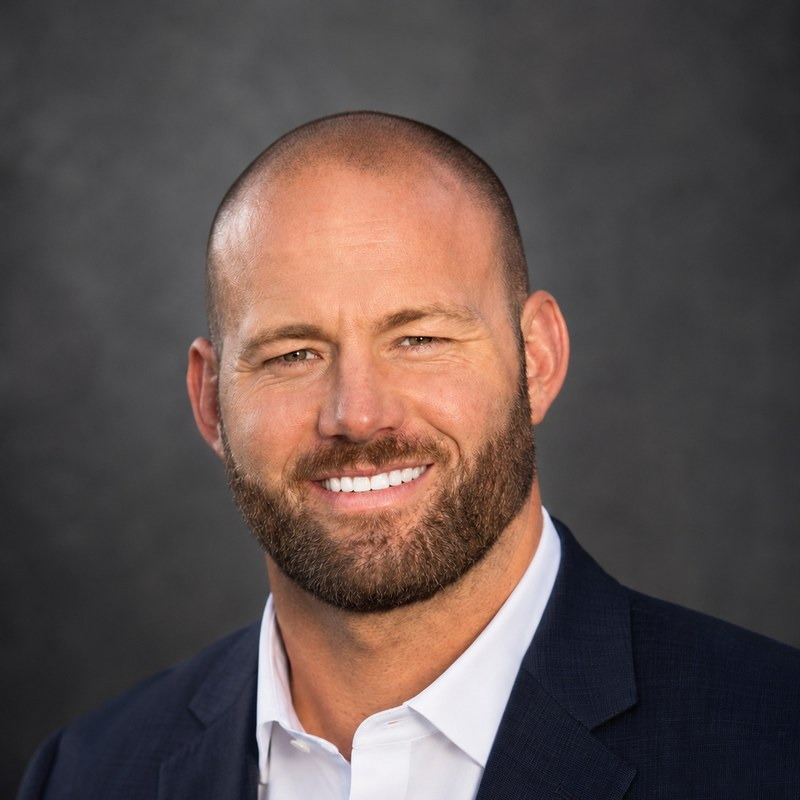
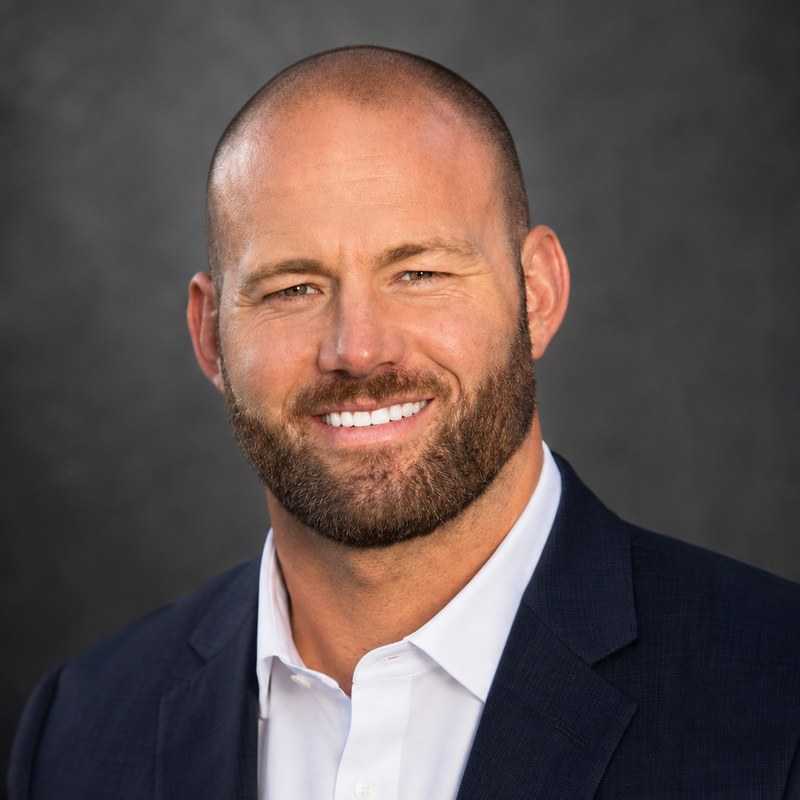
Shorten Brandon's bio to match other leaders; update cropped photo

diff --git a/src/lib/content.ts b/src/lib/content.ts
@@ -271,8 +271,7 @@ export const leadership = {
           photo: img("brandon-rockwood.jpg"),
           role: "Head of Business Development",
           bio: [
-            "Brandon Rockwood is a business development and sales leader with more than 15 years of experience building revenue systems, developing strategic partnerships, and bringing emerging opportunities to market. At Advio, he leads business development efforts focused on building relationships with media companies, sports organizations, distributors, and strategic design partners.",
-            "Known for seeing the bigger picture and creating strong, trusted relationships, Brandon helps partners identify practical ways Advio’s technology can improve advertising performance, unlock the value of underutilized inventory, and generate new revenue. His ability to simplify complex ideas and turn them into clear business opportunities supports Advio’s go-to-market strategy and continued growth.",
+            "Business development and sales executive with more than 15 years of experience building revenue systems, sales teams, and strategic partnerships. Former Vice President of Business Strategy at Alder Holdings and President of Sorce Energy Solutions, with 2016 Gold and Silver Stevie Awards for sales and customer service. Brandon leads partnerships with media companies, sports organizations, and distributors.",
           ],
         },
         { name: "Garrett Daw",
